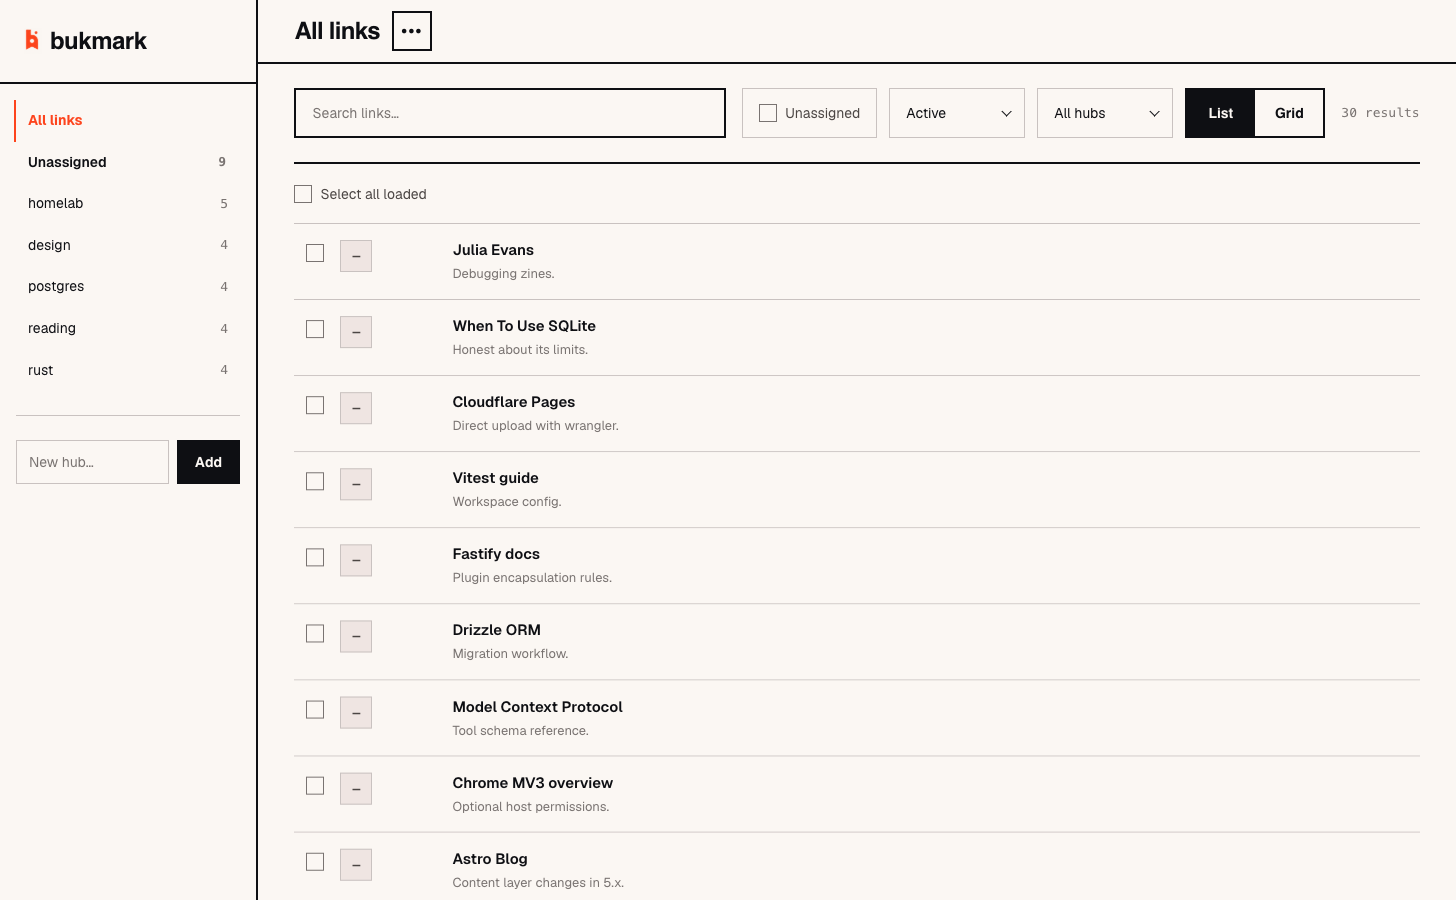
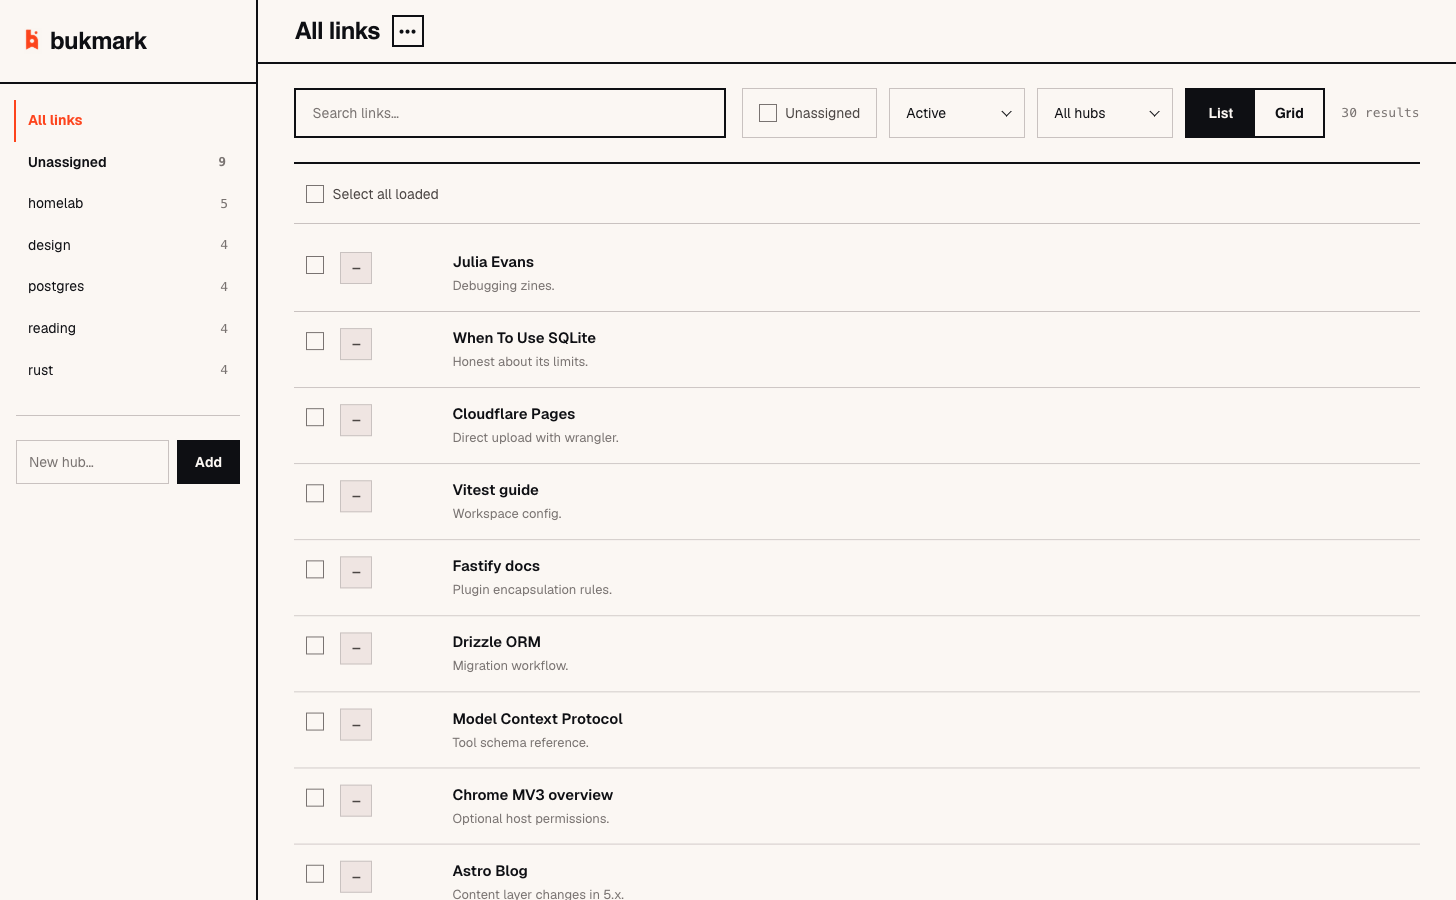
feat: polish controls and scrollbars

diff --git a/apps/web/src/components/AppToolbar.module.css b/apps/web/src/components/AppToolbar.module.css
@@ -31,22 +31,29 @@
 }
 
 .more {
-  flex: 0 0 2.5rem;
+  position: relative;
+  flex: 0 0 2rem;
   display: inline-flex;
   align-items: center;
   justify-content: center;
-  width: 2.5rem;
-  height: 2.5rem;
+  width: 2rem;
+  height: 2rem;
   padding: 0;
   border: 2px solid var(--bk-ink);
   background: var(--bk-paper);
   color: var(--bk-ink);
   font-family: var(--bk-font-body);
-  font-size: 1rem;
+  font-size: 0.875rem;
   font-weight: 800;
-  letter-spacing: 0.08em;
+  letter-spacing: 0.06em;
   line-height: 1;
   transition: background var(--bk-dur-micro) var(--bk-ease-out), color var(--bk-dur-micro) var(--bk-ease-out), border-color var(--bk-dur-micro) var(--bk-ease-out);
+}
+
+.more::before {
+  position: absolute;
+  inset: -0.375rem;
+  content: '';
 }
 
 .more:hover,

diff --git a/apps/web/src/global.css b/apps/web/src/global.css
@@ -54,6 +54,31 @@
 
 * {
   box-sizing: border-box;
+  scrollbar-color: var(--bk-accent) transparent;
+  scrollbar-width: thin;
+}
+
+*::-webkit-scrollbar {
+  width: 0.75rem;
+  height: 0.75rem;
+}
+
+*::-webkit-scrollbar-track,
+*::-webkit-scrollbar-corner {
+  background: transparent;
+}
+
+*::-webkit-scrollbar-thumb {
+  min-height: 2.5rem;
+  border: 2px solid transparent;
+  border-radius: 0;
+  background: var(--bk-accent);
+  background-clip: padding-box;
+  box-shadow: inset -2px -2px 0 var(--bk-ink);
+}
+
+*::-webkit-scrollbar-thumb:hover {
+  box-shadow: inset 2px 2px 0 var(--bk-ink);
 }
 
 html,

diff --git a/apps/web/src/components/LinksView.module.css b/apps/web/src/components/LinksView.module.css
@@ -5,6 +5,7 @@
   gap: var(--bk-space-md);
   min-width: 0;
   min-height: 3.75rem;
+  padding-inline: var(--bk-space-sm);
   border-bottom: 1px solid var(--bk-rule);
 }
 

diff --git a/apps/web/src/components/LinkRow.module.css b/apps/web/src/components/LinkRow.module.css
@@ -127,10 +127,6 @@
 }
 
 @media (max-width: 32rem) {
-  .row {
-    padding-inline: 0;
-  }
-
   .titleLine a {
     white-space: normal;
   }

diff --git a/apps/web/src/components/LinksTable.module.css b/apps/web/src/components/LinksTable.module.css
@@ -1,6 +1,7 @@
 .scroll {
   flex: 1;
   min-height: 0;
+  padding-top: var(--bk-space-sm);
   overflow-y: auto;
 }
 

diff --git a/design.md b/design.md
@@ -39,7 +39,9 @@ to it. Amend intentionally — the file is the rule.
 ## Component voice
 - Borders are structural: 2px solid ink for primary separations (nav, section
   breaks, active states), 1px rule for quiet containment. No shadows, no
-  gradients, no rounded corners.
+  gradients, no rounded corners. Scrollbar thumbs are the sole shadow
+  exception: a hard, zero-blur inset ink edge may sharpen the accent thumb;
+  tracks remain transparent.
 - Primary action · solid ink block, paper text, uppercase display font,
   hover → accent fill + 2px lift. Secondary · 2px ink outline, transparent.
 - Logo mark (`apps/site/public/logo-mark.png`) sits left in any header,
